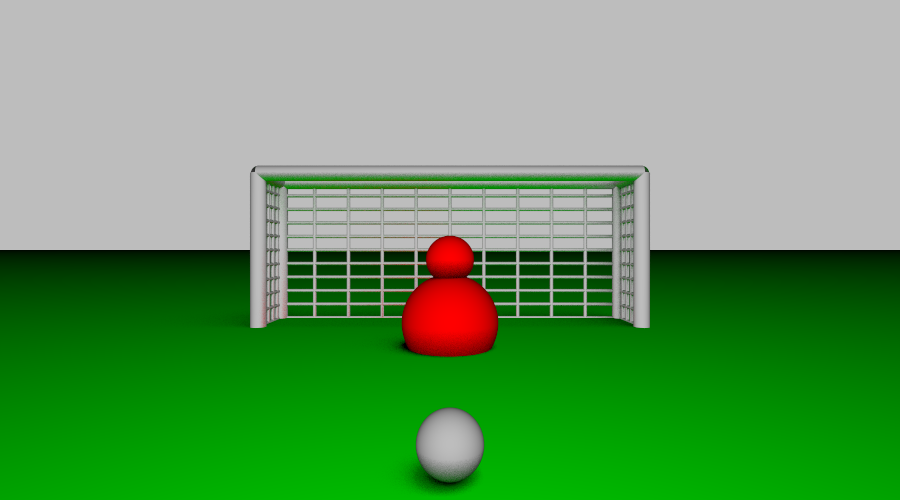
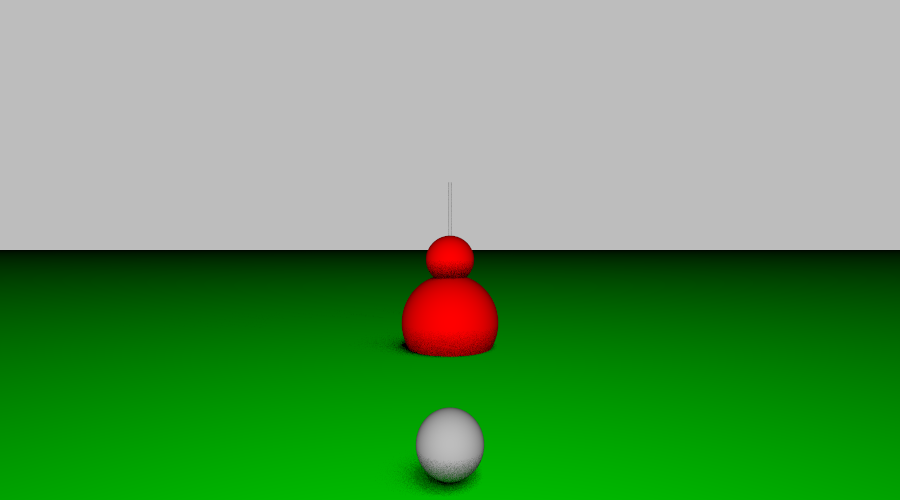
Adds something to the bounding box stuff! Still doesn't work!

Changed region(s): [[0.28, 0.33, 0.7467, 0.66], [0.4978, 0.69, 0.5289, 0.72]]

diff --git a/cgg-abgaben/src/cgg/Ball.java b/cgg-abgaben/src/cgg/Ball.java
@@ -14,6 +14,7 @@ public class Ball implements Shape {
 	
 	@Override
 	public Hit intersect(Ray ray) {
+		if(! bounds().intersect(ray) ) return null;
 		
 		Direction m = Vector.direction(this.m.x, this.m.y, this.m.z);
 		Point x0 = Vector.subtract(ray.origin, m);

diff --git a/cgg-abgaben/src/cgg/Zylinder.java b/cgg-abgaben/src/cgg/Zylinder.java
@@ -20,6 +20,8 @@ public class Zylinder implements Shape {
 
 	@Override
 	public Hit intersect(Ray ray) {
+		
+		if(! bounds().intersect(ray) ) return null;
 
 		Direction m = Vector.direction(pos.x, pos.y, pos.z);
 		Point x0 = Vector.subtract(ray.origin, m);

diff --git a/cgg-abgaben/src/cgg/Cone.java b/cgg-abgaben/src/cgg/Cone.java
@@ -20,7 +20,8 @@ public class Cone implements Shape {
 
 	@Override
 	public Hit intersect(Ray ray) {
-
+		if(! bounds().intersect(ray) ) return null;
+		
 		Direction m = Vector.direction(pos.x, pos.y, pos.z);
 		Point x0 = Vector.subtract(ray.origin, m);
 
